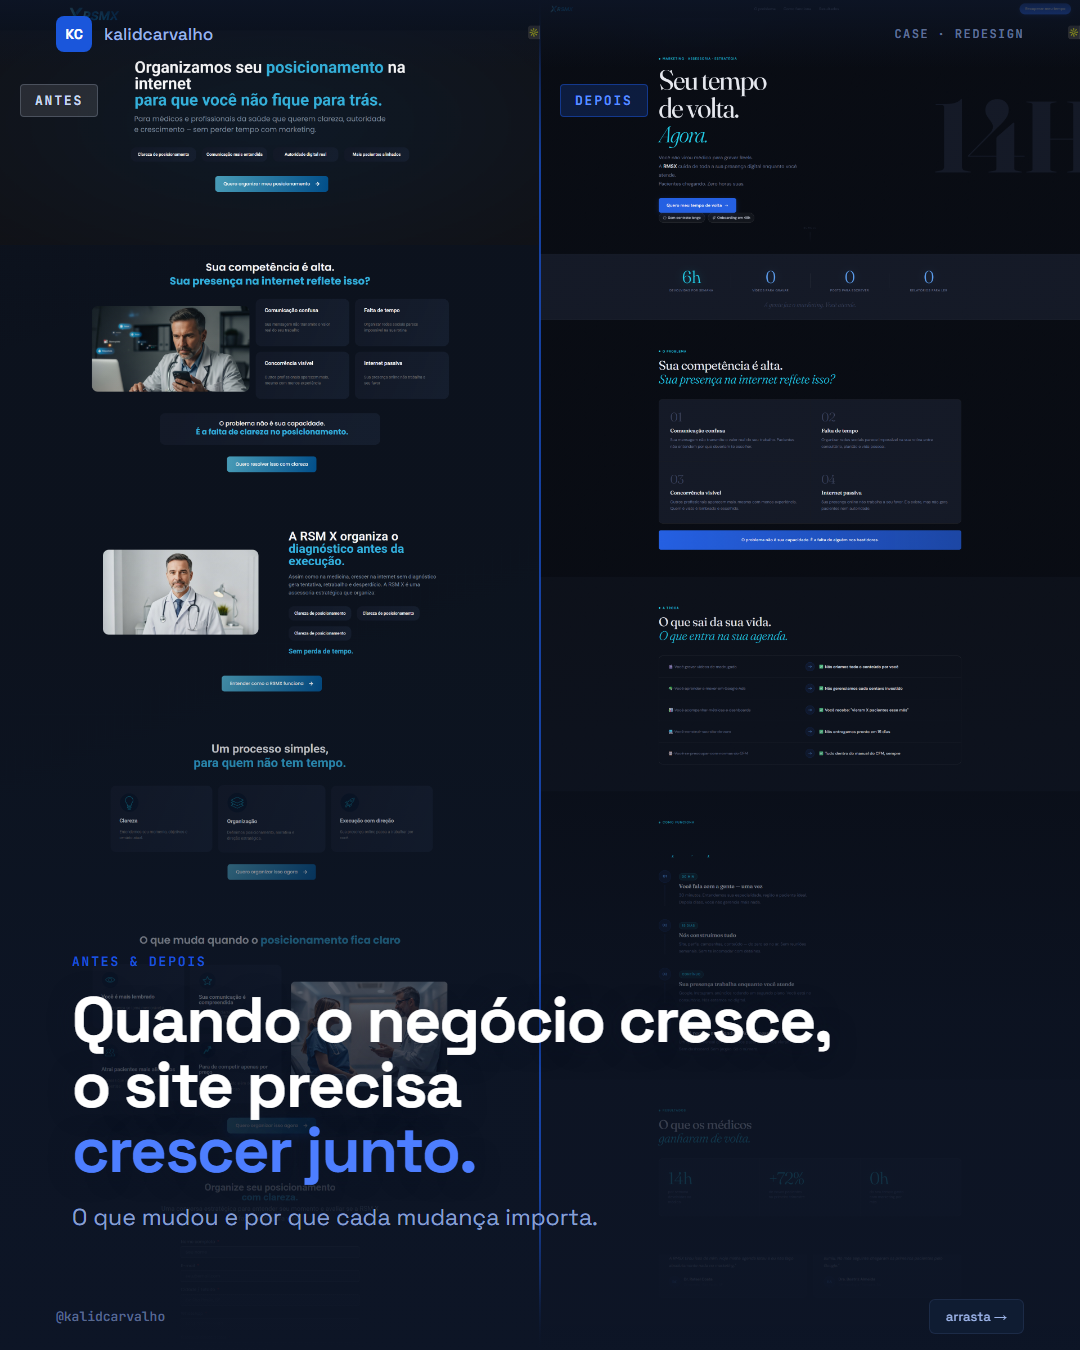
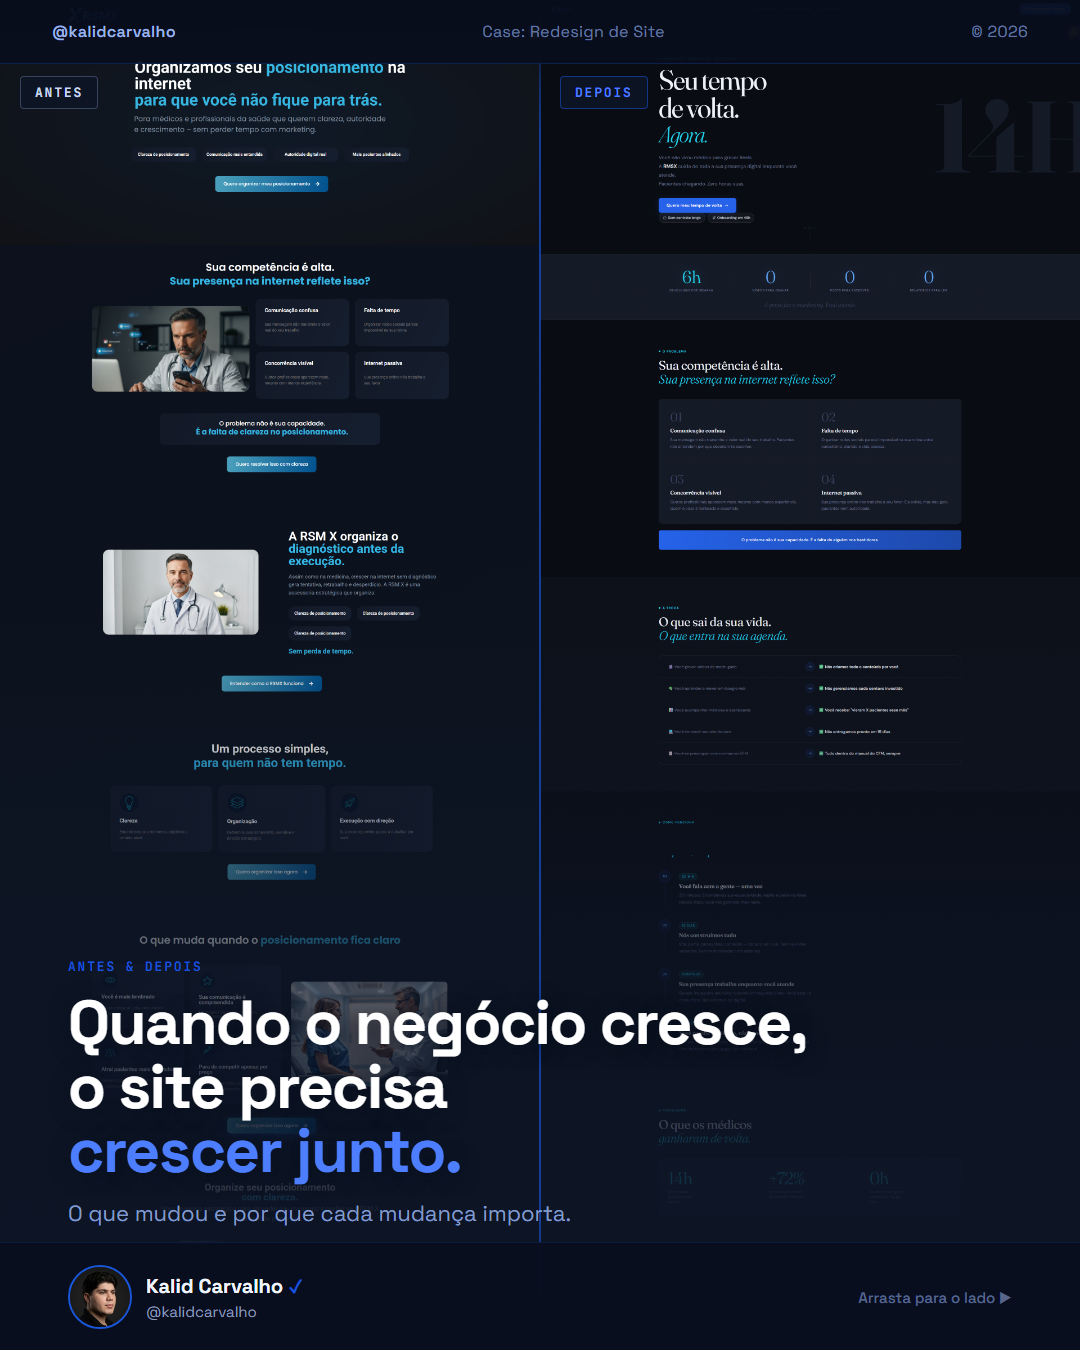
auto-sync: 2026-04-17 20:24

diff --git a/conteudo/kalidcarvalho/carrosseis/2026-04-17/instagram/slide-01.html b/conteudo/kalidcarvalho/carrosseis/2026-04-17/instagram/slide-01.html
@@ -41,24 +41,66 @@
     display: block;
   }
 
-  /* leve escurecimento no topo, forte no rodapé para o texto */
+  /* overlay: quase nada no meio, forte no topo e rodapé */
   .split-side .overlay {
     position: absolute;
     inset: 0;
     background: linear-gradient(
       to bottom,
-      rgba(13, 21, 38, 0.04) 0%,
-      rgba(13, 21, 38, 0.04) 45%,
-      rgba(13, 21, 38, 0.72) 75%,
-      rgba(13, 21, 38, 0.97) 100%
+      rgba(13, 21, 38, 0.0) 10%,
+      rgba(13, 21, 38, 0.0) 45%,
+      rgba(13, 21, 38, 0.65) 70%,
+      rgba(13, 21, 38, 0.98) 100%
     );
   }
 
-  /* label ANTES / DEPOIS */
+  /* divider */
+  .divider {
+    position: absolute;
+    top: 0; bottom: 0;
+    left: calc(50% - 1px);
+    width: 2px;
+    background: linear-gradient(
+      to bottom,
+      transparent 0%,
+      rgba(26,86,219,0.65) 10%,
+      rgba(26,86,219,0.65) 90%,
+      transparent 100%
+    );
+    z-index: 6;
+  }
+
+  /* TOP BAR — sólido */
+  .top-bar {
+    position: absolute;
+    top: 0; left: 0; right: 0;
+    height: 64px;
+    padding: 0 52px;
+    display: flex;
+    align-items: center;
+    justify-content: space-between;
+    z-index: 20;
+    background: rgba(8, 14, 28, 0.95);
+    border-bottom: 1px solid rgba(26, 86, 219, 0.25);
+  }
+
+  .top-bar span {
+    font-family: 'Space Grotesk', sans-serif;
+    font-size: 16px;
+    font-weight: 400;
+    color: rgba(155, 179, 232, 0.65);
+    letter-spacing: 0.02em;
+  }
+
+  .top-bar span.brand {
+    font-weight: 600;
+    color: #9BB3E8;
+  }
+
+  /* LABELS ANTES / DEPOIS — abaixo da top bar, bem destacados */
   .site-label {
     position: absolute;
-    top: 84px;
-    left: 20px;
+    top: 76px;
     font-family: 'JetBrains Mono', monospace;
     font-size: 13px;
     font-weight: 700;
@@ -66,92 +108,29 @@
     text-transform: uppercase;
     padding: 7px 14px;
     border-radius: 4px;
-    z-index: 2;
+    z-index: 15;
   }
 
-  .split-side.antes .site-label {
-    background: rgba(255,255,255,0.10);
+  .label-antes {
+    left: 20px;
+    background: rgba(13, 21, 38, 0.82);
     color: #C8D8F0;
-    border: 1px solid rgba(200, 216, 240, 0.22);
+    border: 1px solid rgba(155, 179, 232, 0.30);
   }
 
-  .split-side.depois .site-label {
-    background: rgba(26, 86, 219, 0.22);
-    color: #5B8FFF;
-    border: 1px solid rgba(26, 86, 219, 0.50);
+  .label-depois {
+    left: calc(50% + 20px);
+    background: rgba(13, 21, 38, 0.82);
+    color: #4D7EFF;
+    border: 1px solid rgba(26, 86, 219, 0.55);
   }
 
-  /* divider */
-  .divider {
-    position: absolute;
-    top: 0;
-    left: calc(50% - 1px);
-    width: 2px;
-    height: 100%;
-    background: linear-gradient(
-      to bottom,
-      transparent 0%,
-      rgba(26,86,219,0.70) 12%,
-      rgba(26,86,219,0.70) 88%,
-      transparent 100%
-    );
-    z-index: 5;
-  }
-
-  /* TOP BAR — flutuando */
-  .top-bar {
-    position: absolute;
-    top: 0; left: 0; right: 0;
-    height: 68px;
-    padding: 0 56px;
-    display: flex;
-    align-items: center;
-    justify-content: space-between;
-    z-index: 20;
-    background: linear-gradient(to bottom, rgba(13,21,38,0.88) 0%, transparent 100%);
-  }
-
-  .logo {
-    display: flex;
-    align-items: center;
-    gap: 12px;
-  }
-
-  .logo-mark {
-    width: 36px;
-    height: 36px;
-    background: #1A56DB;
-    border-radius: 8px;
-    display: flex;
-    align-items: center;
-    justify-content: center;
-    font-family: 'Space Grotesk', sans-serif;
-    font-weight: 700;
-    font-size: 14px;
-    color: #FFFFFF;
-  }
-
-  .logo-name {
-    font-size: 17px;
-    font-weight: 500;
-    color: #9BB3E8;
-  }
-
-  .slide-label {
-    font-family: 'JetBrains Mono', monospace;
-    font-size: 12px;
-    font-weight: 600;
-    color: rgba(155,179,232,0.60);
-    letter-spacing: 0.12em;
-    text-transform: uppercase;
-  }
-
-  /* TEXT AREA — sobreposto no fundo */
+  /* HEADLINE + subtítulo — centro/baixo */
   .text-area {
     position: absolute;
-    bottom: 68px;
+    bottom: 120px;
     left: 0; right: 0;
-    padding: 0 72px 48px;
+    padding: 0 68px 0;
     z-index: 15;
   }
 
@@ -162,17 +141,17 @@
     color: #1A56DB;
     text-transform: uppercase;
     letter-spacing: 0.14em;
-    margin-bottom: 18px;
+    margin-bottom: 16px;
   }
 
   .headline {
-    font-size: 64px;
+    font-size: 62px;
     font-weight: 700;
-    line-height: 1.02;
+    line-height: 1.03;
     color: #FFFFFF;
-    letter-spacing: -1.8px;
-    margin-bottom: 16px;
-    text-shadow: 0 2px 24px rgba(13,21,38,0.6);
+    letter-spacing: -1.6px;
+    margin-bottom: 14px;
+    text-shadow: 0 2px 20px rgba(8, 14, 28, 0.8);
   }
 
   .headline em {
@@ -181,41 +160,82 @@
   }
 
   .subtitle {
-    font-size: 23px;
+    font-size: 22px;
     font-weight: 400;
-    color: rgba(155,179,232,0.90);
+    color: rgba(155, 179, 232, 0.85);
     line-height: 1.5;
   }
 
-  /* BOTTOM BAR — flutuando */
-  .bottom-bar {
+  /* BOTTOM AUTHOR */
+  .bottom-author {
     position: absolute;
     bottom: 0; left: 0; right: 0;
-    height: 68px;
-    padding: 0 56px;
+    height: 108px;
+    padding: 0 68px;
     display: flex;
     align-items: center;
     justify-content: space-between;
     z-index: 20;
-    background: linear-gradient(to top, rgba(13,21,38,0.88) 0%, transparent 100%);
+    background: rgba(8, 14, 28, 0.95);
+    border-top: 1px solid rgba(26, 86, 219, 0.20);
   }
 
-  .handle {
-    font-family: 'JetBrains Mono', monospace;
-    font-size: 13px;
-    font-weight: 500;
-    color: rgba(155,179,232,0.55);
+  .ba-left {
+    display: flex;
+    align-items: center;
+    gap: 14px;
   }
 
-  .swipe-tag {
-    font-size: 13px;
+  .ba-avatar {
+    width: 64px;
+    height: 64px;
+    border-radius: 50%;
+    border: 2px solid #1A56DB;
+    overflow: hidden;
+    flex-shrink: 0;
+    background: #1C2D4A;
+  }
+
+  .ba-avatar img {
+    width: 100%;
+    height: 100%;
+    object-fit: cover;
+    object-position: top center;
+  }
+
+  .ba-info {
+    display: flex;
+    flex-direction: column;
+    gap: 3px;
+  }
+
+  .ba-name {
+    font-family: 'Space Grotesk', sans-serif;
+    font-size: 20px;
+    font-weight: 700;
+    color: #F0F4FF;
+    display: flex;
+    align-items: center;
+    gap: 6px;
+  }
+
+  .ba-check {
+    color: #1A56DB;
+    font-size: 18px;
+  }
+
+  .ba-handle {
+    font-family: 'Space Grotesk', sans-serif;
+    font-size: 15px;
+    font-weight: 400;
+    color: #8899BB;
+  }
+
+  .ba-right {
+    font-family: 'Space Grotesk', sans-serif;
+    font-size: 15px;
     font-weight: 500;
-    color: #9BB3E8;
-    background: rgba(17,29,53,0.85);
-    border: 1px solid rgba(30,46,74,0.9);
-    border-radius: 6px;
-    padding: 8px 16px;
-    backdrop-filter: blur(4px);
+    color: rgba(155, 179, 232, 0.55);
   }
 </style>
 </head>
@@ -225,34 +245,45 @@
     <div class="split-side antes">
       <img src="../../../../../dados/antiga.png" alt="Site antigo">
       <div class="overlay"></div>
-      <span class="site-label">antes</span>
     </div>
     <div class="split-side depois">
       <img src="../../../../../dados/nova.png" alt="Site novo">
       <div class="overlay"></div>
-      <span class="site-label">depois</span>
     </div>
   </div>
 
   <div class="divider"></div>
 
+  <!-- TOP BAR -->
   <div class="top-bar">
-    <div class="logo">
-      <div class="logo-mark">KC</div>
-      <span class="logo-name">kalidcarvalho</span>
-    </div>
-    <span class="slide-label">Case · Redesign</span>
+    <span class="brand">@kalidcarvalho</span>
+    <span>Case: Redesign de Site</span>
+    <span>© 2026</span>
   </div>
 
+  <!-- LABELS -->
+  <span class="site-label label-antes">antes</span>
+  <span class="site-label label-depois">depois</span>
+
+  <!-- HEADLINE -->
   <div class="text-area">
     <div class="tag">antes &amp; depois</div>
     <h1 class="headline">Quando o negócio cresce,<br>o site precisa<br><em>crescer junto.</em></h1>
     <p class="subtitle">O que mudou e por que cada mudança importa.</p>
   </div>
 
-  <div class="bottom-bar">
-    <span class="handle">@kalidcarvalho</span>
-    <span class="swipe-tag">arrasta →</span>
+  <!-- BOTTOM AUTHOR -->
+  <div class="bottom-author">
+    <div class="ba-left">
+      <div class="ba-avatar">
+        <img src="../../../../../marca/foto-perfil.png" alt="Kalid Carvalho">
+      </div>
+      <div class="ba-info">
+        <span class="ba-name">Kalid Carvalho <span class="ba-check">✓</span></span>
+        <span class="ba-handle">@kalidcarvalho</span>
+      </div>
+    </div>
+    <span class="ba-right">Arrasta para o lado ▶</span>
   </div>
 
 </body>
